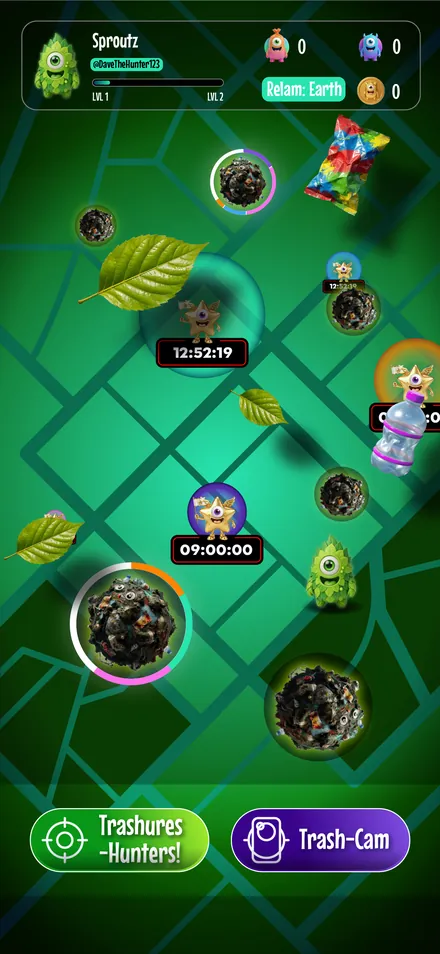
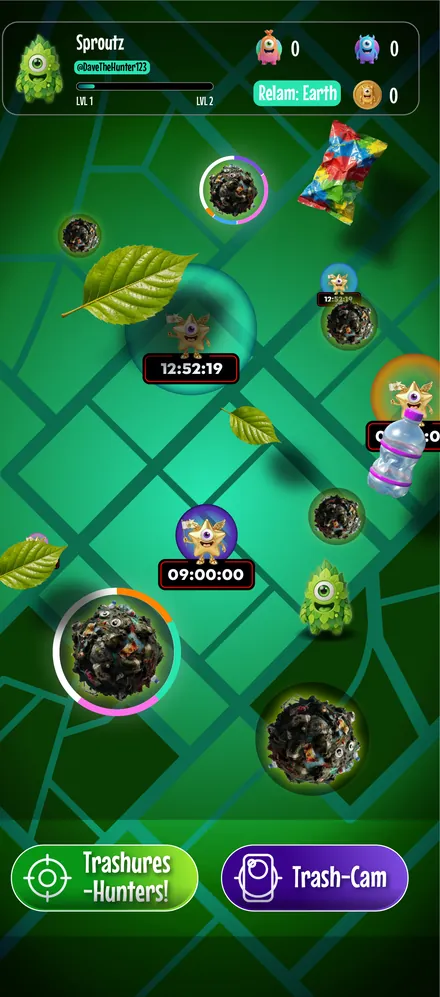
Uncrop TH profile screen and keep map timer edge in frame
Claude-Session: https://claude.ai/code/session_01NYMEjb3suz5Xdw8cPuvfsd

diff --git a/work/trashure-hunters.html b/work/trashure-hunters.html
@@ -408,7 +408,7 @@ h2 .mute{color:#8E93B8}
 .kings img{width:100%;height:auto;max-height:130px;object-fit:contain;filter:drop-shadow(0 12px 14px rgba(0,0,0,.5))}
 .kings figcaption{margin-top:6px;color:var(--kc)}
 .rwside{display:grid;grid-template-columns:1fr 260px;gap:40px;align-items:center;margin-top:56px}
-.rwside .phone{width:100%;aspect-ratio:945/1828;--pc:var(--gold)}
+.rwside .phone{width:100%;aspect-ratio:720/1302;--pc:var(--gold)}
 @media(max-width:900px){.rwgrid{grid-template-columns:1fr 1fr}.rc2.wide{grid-column:1/-1}.rwside{grid-template-columns:1fr}.rwside .phone{max-width:240px;margin:0 auto}}
 @media(max-width:560px){.rwgrid{grid-template-columns:1fr}.kings{grid-template-columns:repeat(5,1fr);gap:2px}.kings figcaption{font-size:11px}}
 
@@ -670,7 +670,7 @@ h2 .mute{color:#8E93B8}
   </div>
   <div class="rwside rv">
    <div><h3 style="font-size:clamp(24px,2.6vw,32px)">It all adds up on the <span style="color:var(--orange)">Hunter profile.</span></h3><p class="lede" style="font-size:16px;margin-top:8px">XP, Trash-Cash, Compos, items cleaned and zones, next to your Elemonster&rsquo;s evolution bar.</p><p class="note"><b>Real screen</b>From the private test build. Name and numbers come from a test account.</p></div>
-   <div class="phone"><img src="../assets/work/trashure-hunters/screens/play-profile.webp" alt="Trashure Hunters Hunter profile: evolution progress, XP, Trash-Cash, Compos" width="720" height="1393" loading="lazy"></div>
+   <div class="phone"><img src="../assets/work/trashure-hunters/screens/play-profile.webp" alt="Trashure Hunters Hunter profile: evolution progress, XP, Trash-Cash, Compos" width="720" height="1302" loading="lazy"></div>
   </div>
  </div>
 </section>
